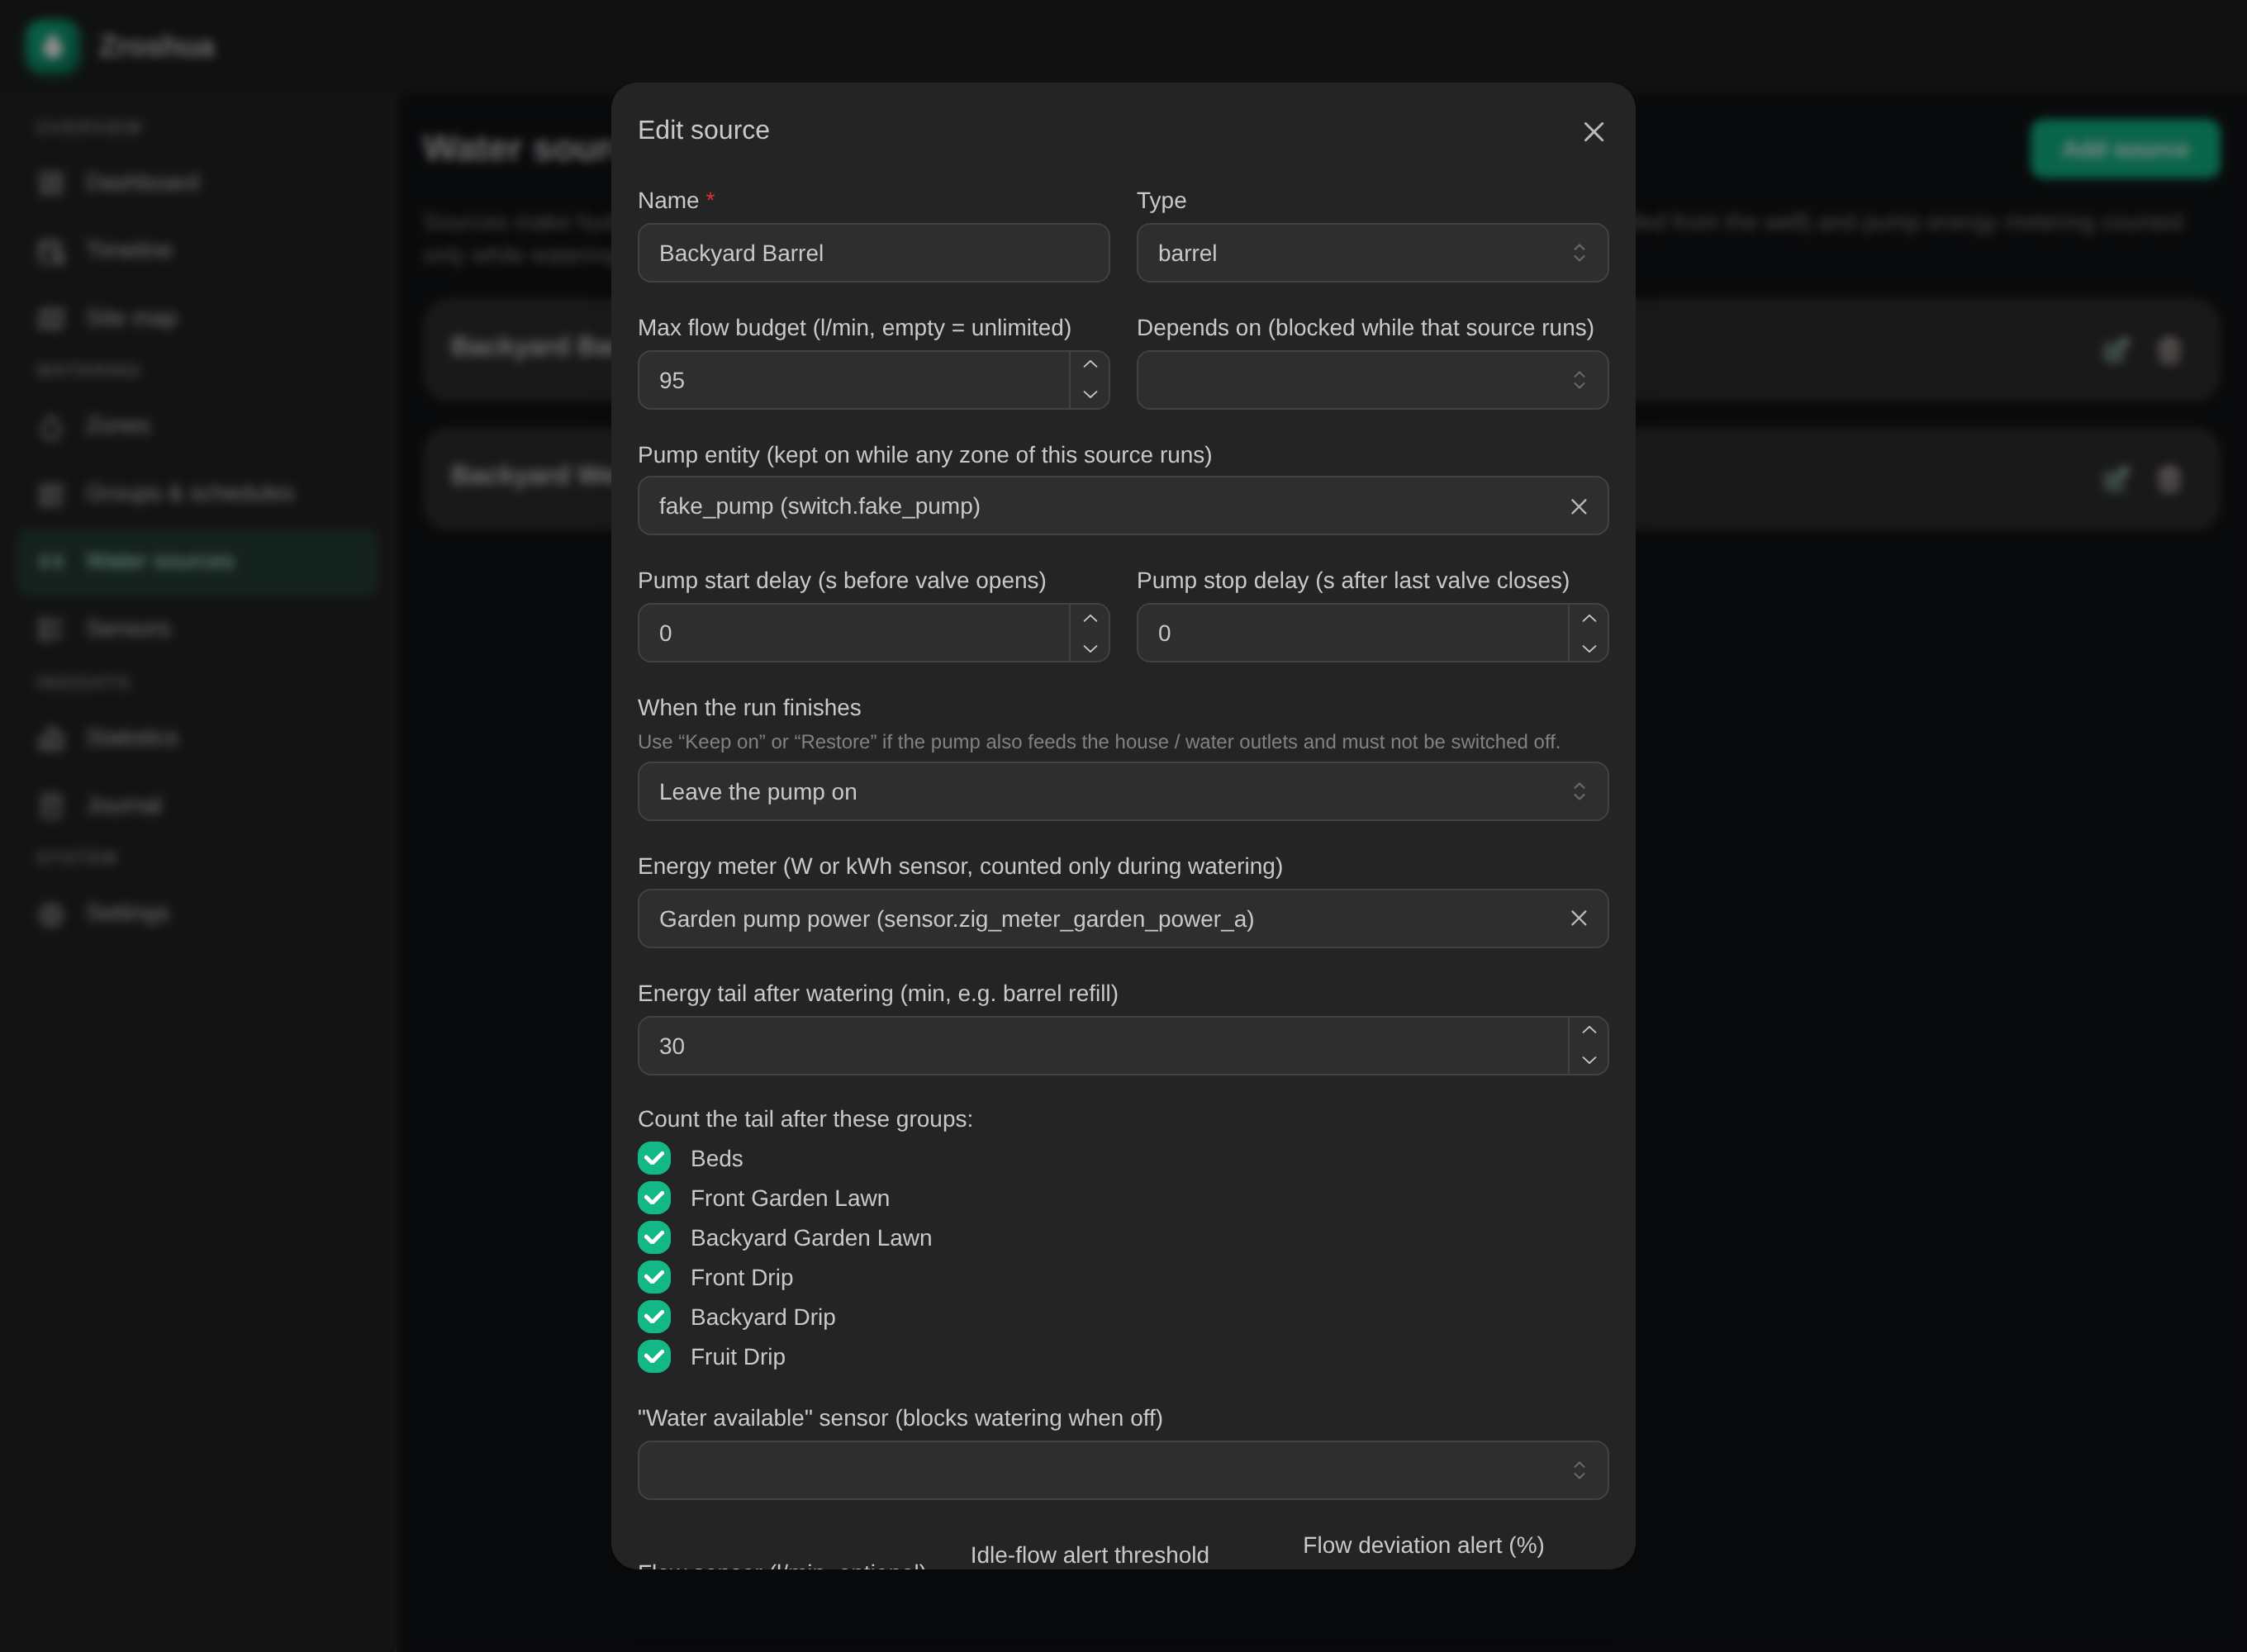
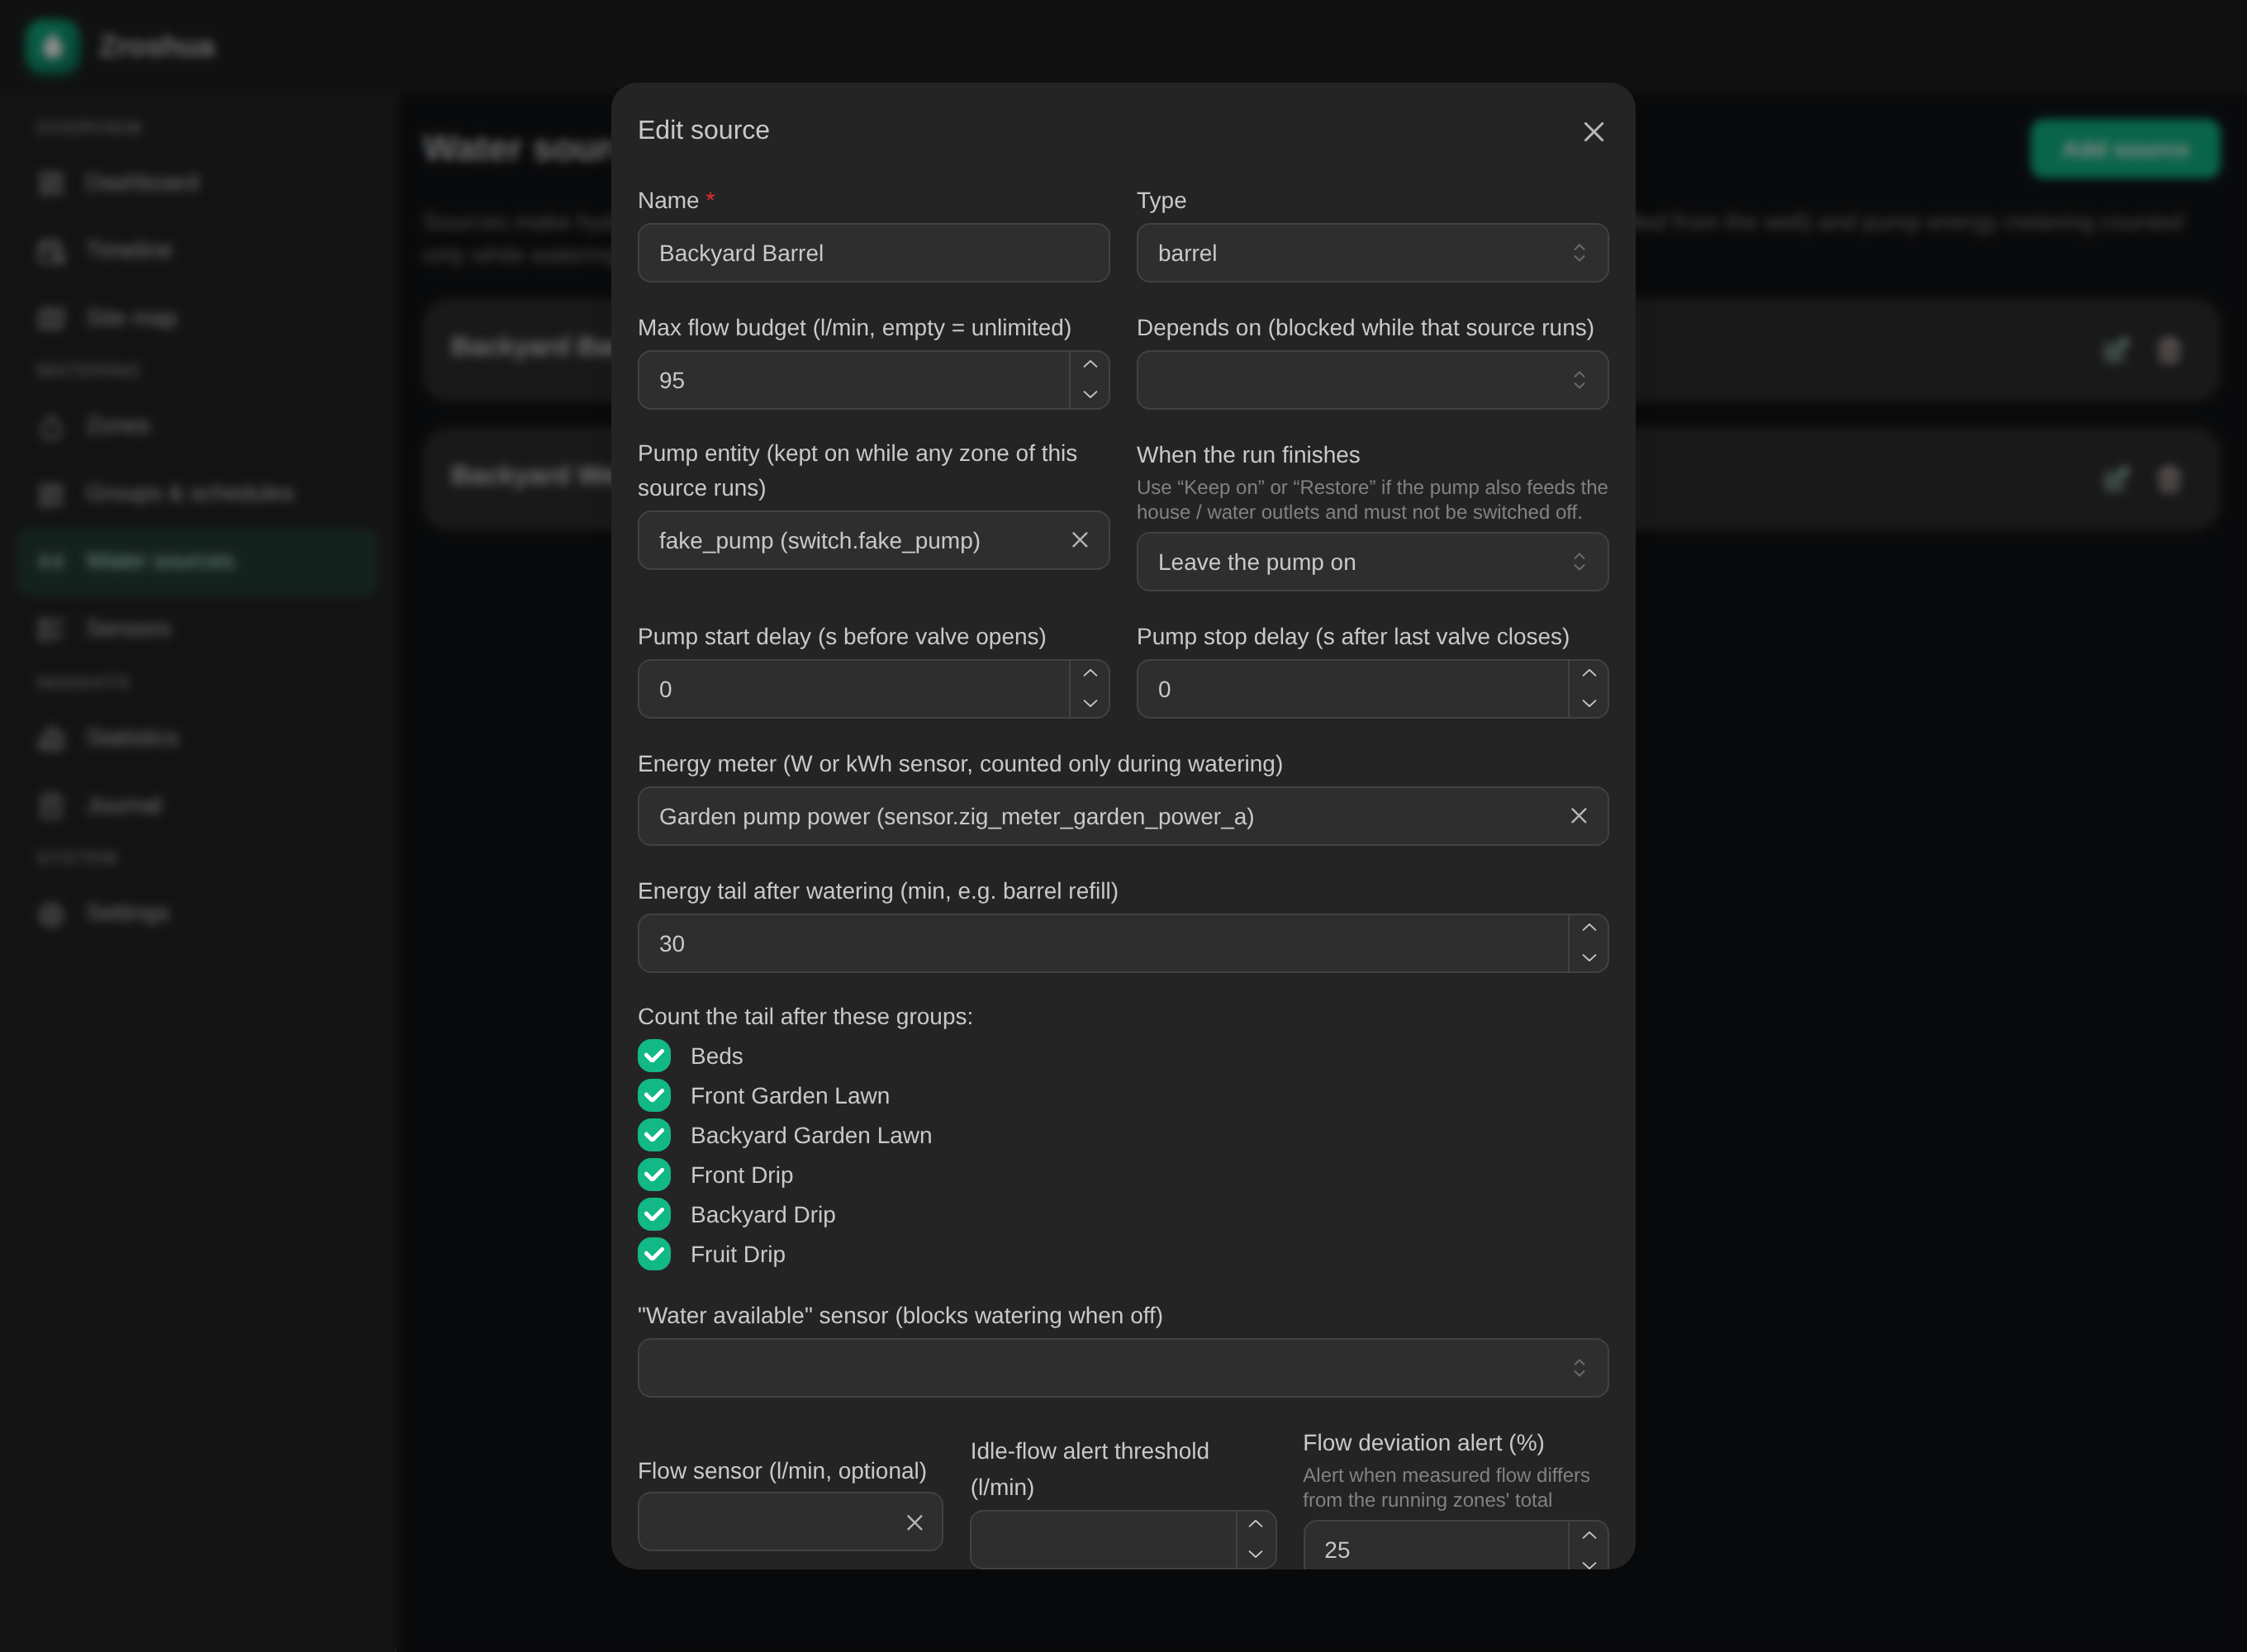
0.2.7: group pump entity and after-run behaviour in one row
The pump entity and the 'When the run finishes' select were separated by the
start/stop delay fields. Put them side by side in a single Group row; the
delays move below and only render when a pump entity is set.

Changed region(s): [[0.2812, 0.279, 0.6875, 0.961], [0.5, 0.248, 0.7188, 0.403], [0.5625, 0.868, 0.7188, 0.961]]

diff --git a/zroshua/frontend/src/pages/SourcesPage.tsx b/zroshua/frontend/src/pages/SourcesPage.tsx
@@ -100,36 +100,40 @@ export default function SourcesPage() {
                 clearable
               />
             </Group>
-            <EntitySelect
-              label="Pump entity (kept on while any zone of this source runs)"
-              value={editing.pumpEntity ?? null}
-              onChange={(v) => setEditing({ ...editing, pumpEntity: v })}
-              domains={['switch', 'input_boolean']}
-            />
-            <Group grow>
-              <NumberInput
-                label="Pump start delay (s before valve opens)"
-                value={editing.pumpStartDelayS ?? 0}
-                onChange={(v) => setEditing({ ...editing, pumpStartDelayS: Number(v) || 0 })}
+            <Group grow align="flex-start" wrap="wrap">
+              <EntitySelect
+                label="Pump entity (kept on while any zone of this source runs)"
+                value={editing.pumpEntity ?? null}
+                onChange={(v) => setEditing({ ...editing, pumpEntity: v })}
+                domains={['switch', 'input_boolean']}
               />
-              <NumberInput
-                label="Pump stop delay (s after last valve closes)"
-                value={editing.pumpStopDelayS ?? 0}
-                onChange={(v) => setEditing({ ...editing, pumpStopDelayS: Number(v) || 0 })}
-              />
+              {editing.pumpEntity && (
+                <Select
+                  label="When the run finishes"
+                  description="Use “Keep on” or “Restore” if the pump also feeds the house / water outlets and must not be switched off."
+                  data={[
+                    { value: 'off', label: 'Turn the pump off' },
+                    { value: 'keep_on', label: 'Leave the pump on' },
+                    { value: 'restore', label: 'Restore the state it had before (off only if it was off)' },
+                  ]}
+                  value={editing.pumpAfterRun ?? 'off'}
+                  onChange={(v) => setEditing({ ...editing, pumpAfterRun: (v as 'off' | 'keep_on' | 'restore') ?? 'off' })}
+                />
+              )}
             </Group>
             {editing.pumpEntity && (
-              <Select
-                label="When the run finishes"
-                description="Use “Keep on” or “Restore” if the pump also feeds the house / water outlets and must not be switched off."
-                data={[
-                  { value: 'off', label: 'Turn the pump off' },
-                  { value: 'keep_on', label: 'Leave the pump on' },
-                  { value: 'restore', label: 'Restore the state it had before (off only if it was off)' },
-                ]}
-                value={editing.pumpAfterRun ?? 'off'}
-                onChange={(v) => setEditing({ ...editing, pumpAfterRun: (v as 'off' | 'keep_on' | 'restore') ?? 'off' })}
-              />
+              <Group grow>
+                <NumberInput
+                  label="Pump start delay (s before valve opens)"
+                  value={editing.pumpStartDelayS ?? 0}
+                  onChange={(v) => setEditing({ ...editing, pumpStartDelayS: Number(v) || 0 })}
+                />
+                <NumberInput
+                  label="Pump stop delay (s after last valve closes)"
+                  value={editing.pumpStopDelayS ?? 0}
+                  onChange={(v) => setEditing({ ...editing, pumpStopDelayS: Number(v) || 0 })}
+                />
+              </Group>
             )}
             <EntitySelect
               label="Energy meter (W or kWh sensor, counted only during watering)"

diff --git a/zroshua/CHANGELOG.md b/zroshua/CHANGELOG.md
@@ -1,5 +1,11 @@
 # Changelog
 
+## 0.2.7
+
+- Water source editor: put **Pump entity** and **When the run finishes** side by
+  side in one row (they belong together); the pump start/stop delays now sit
+  below them and only show once a pump entity is set.
+
 ## 0.2.6
 
 - **Pump: choose what happens after a run.** A source's pump entity no longer